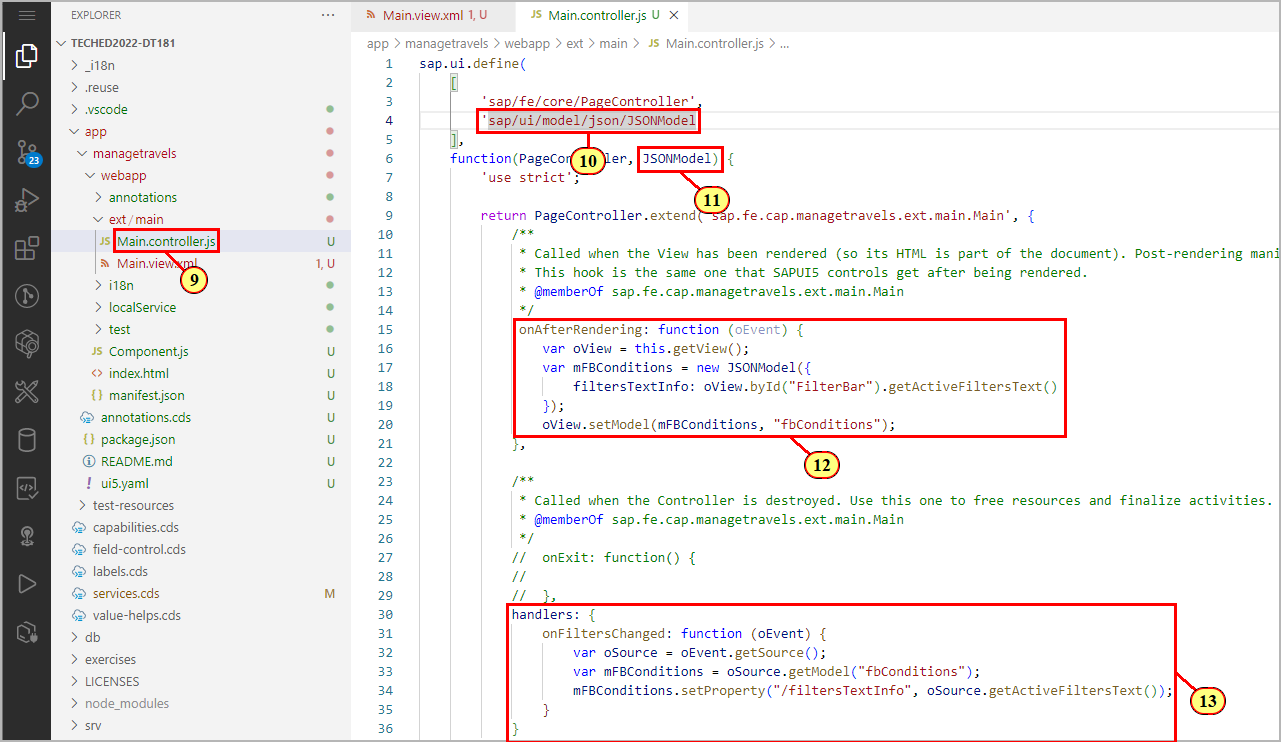
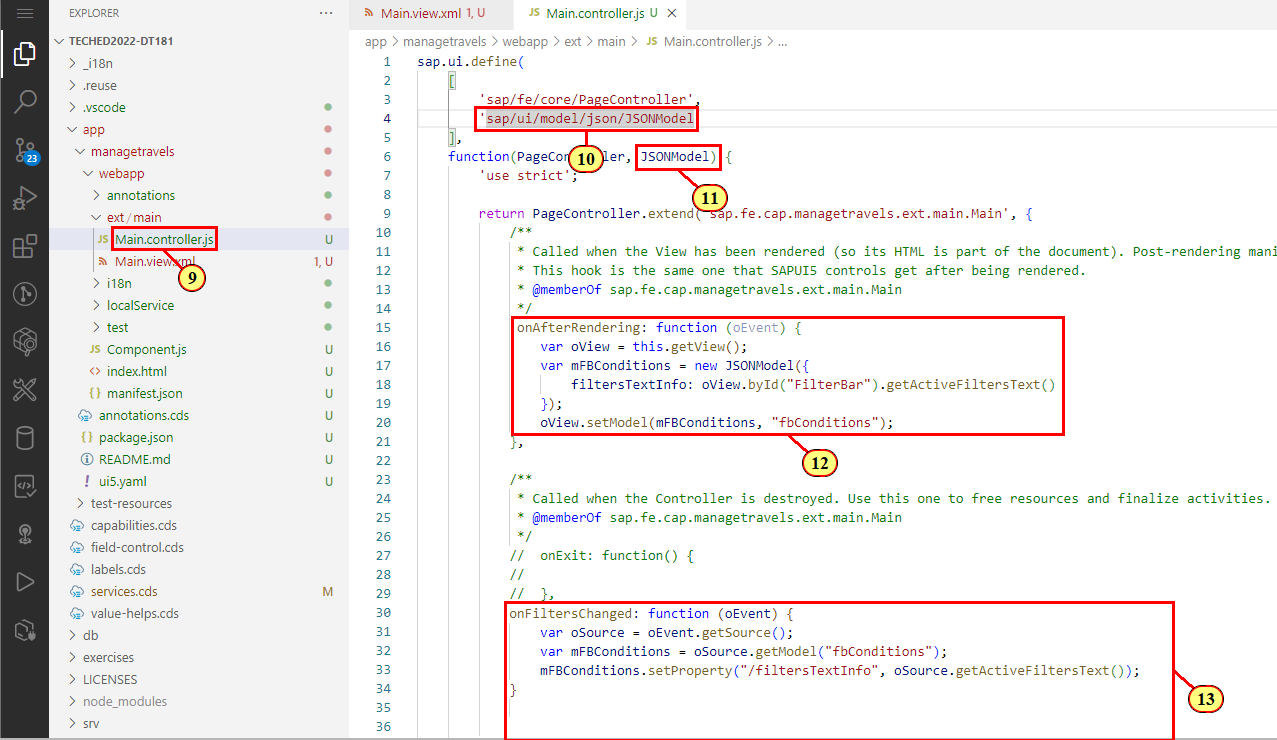
readme updated

diff --git a/exercises/ex3/README.md b/exercises/ex3/README.md
@@ -107,15 +107,13 @@ as import parameter to the page controller function (see screenshot above).
 				oView.setModel(mFBConditions, "fbConditions");
 			},
 ```
-(13) Add the following wrapped handler function **onFiltersChanged** as shown in the screenshot.
+(13) Add the following handler function **onFiltersChanged** as shown in the screenshot.
 ```js
-            handlers: {
-				onFiltersChanged: function (oEvent) {
-					var oSource = oEvent.getSource();
-					var mFBConditions = oSource.getModel("fbConditions");
-					mFBConditions.setProperty("/filtersTextInfo", oSource.getActiveFiltersText());
-				}             
-			}
+            onFiltersChanged: function (oEvent) {
+                var oSource = oEvent.getSource();
+                var mFBConditions = oSource.getModel("fbConditions");
+                mFBConditions.setProperty("/filtersTextInfo", oSource.getActiveFiltersText());
+            }             
 ```
 ![](./images/image9.png)
 
